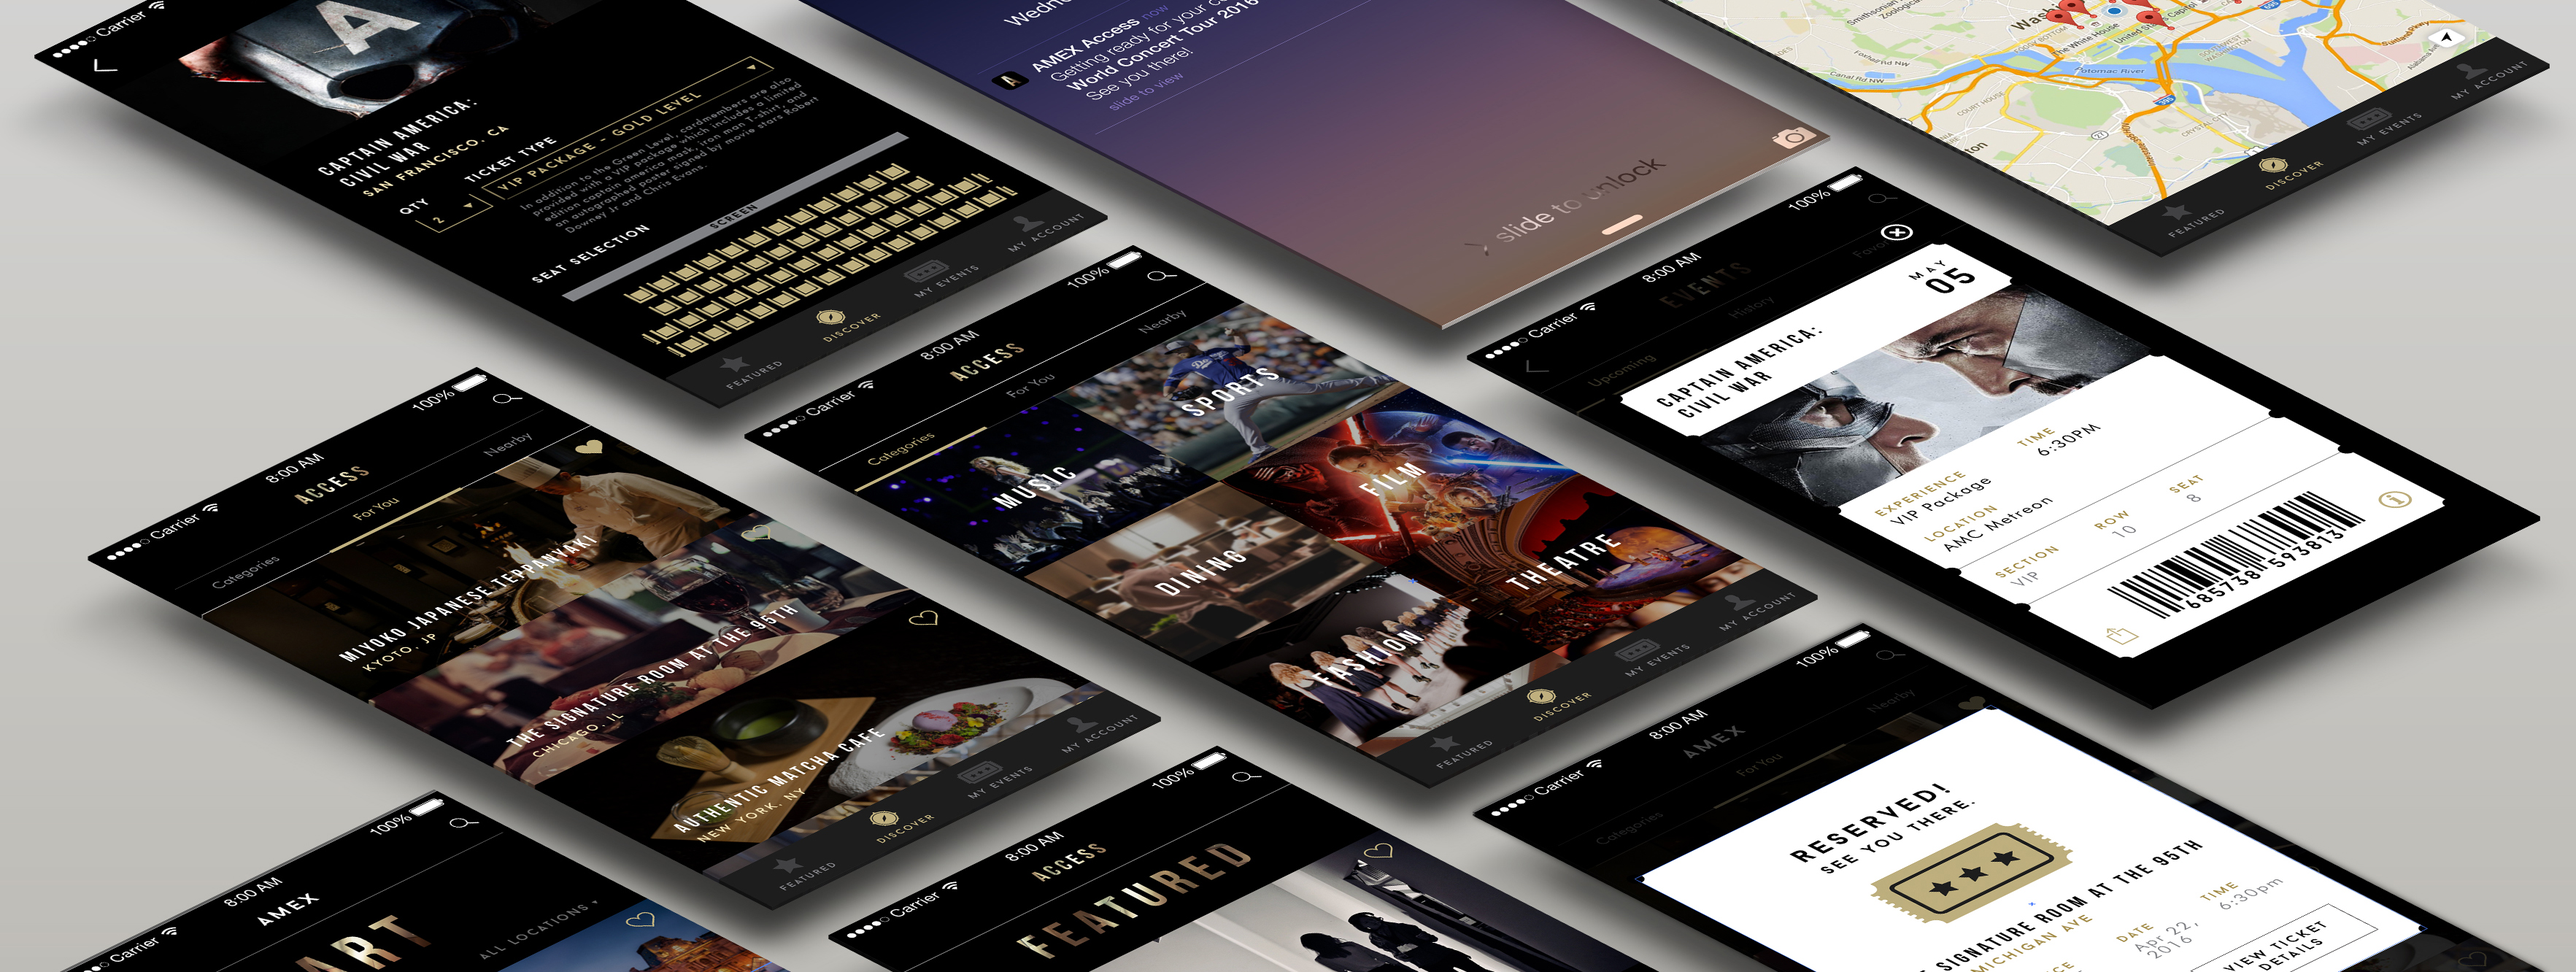
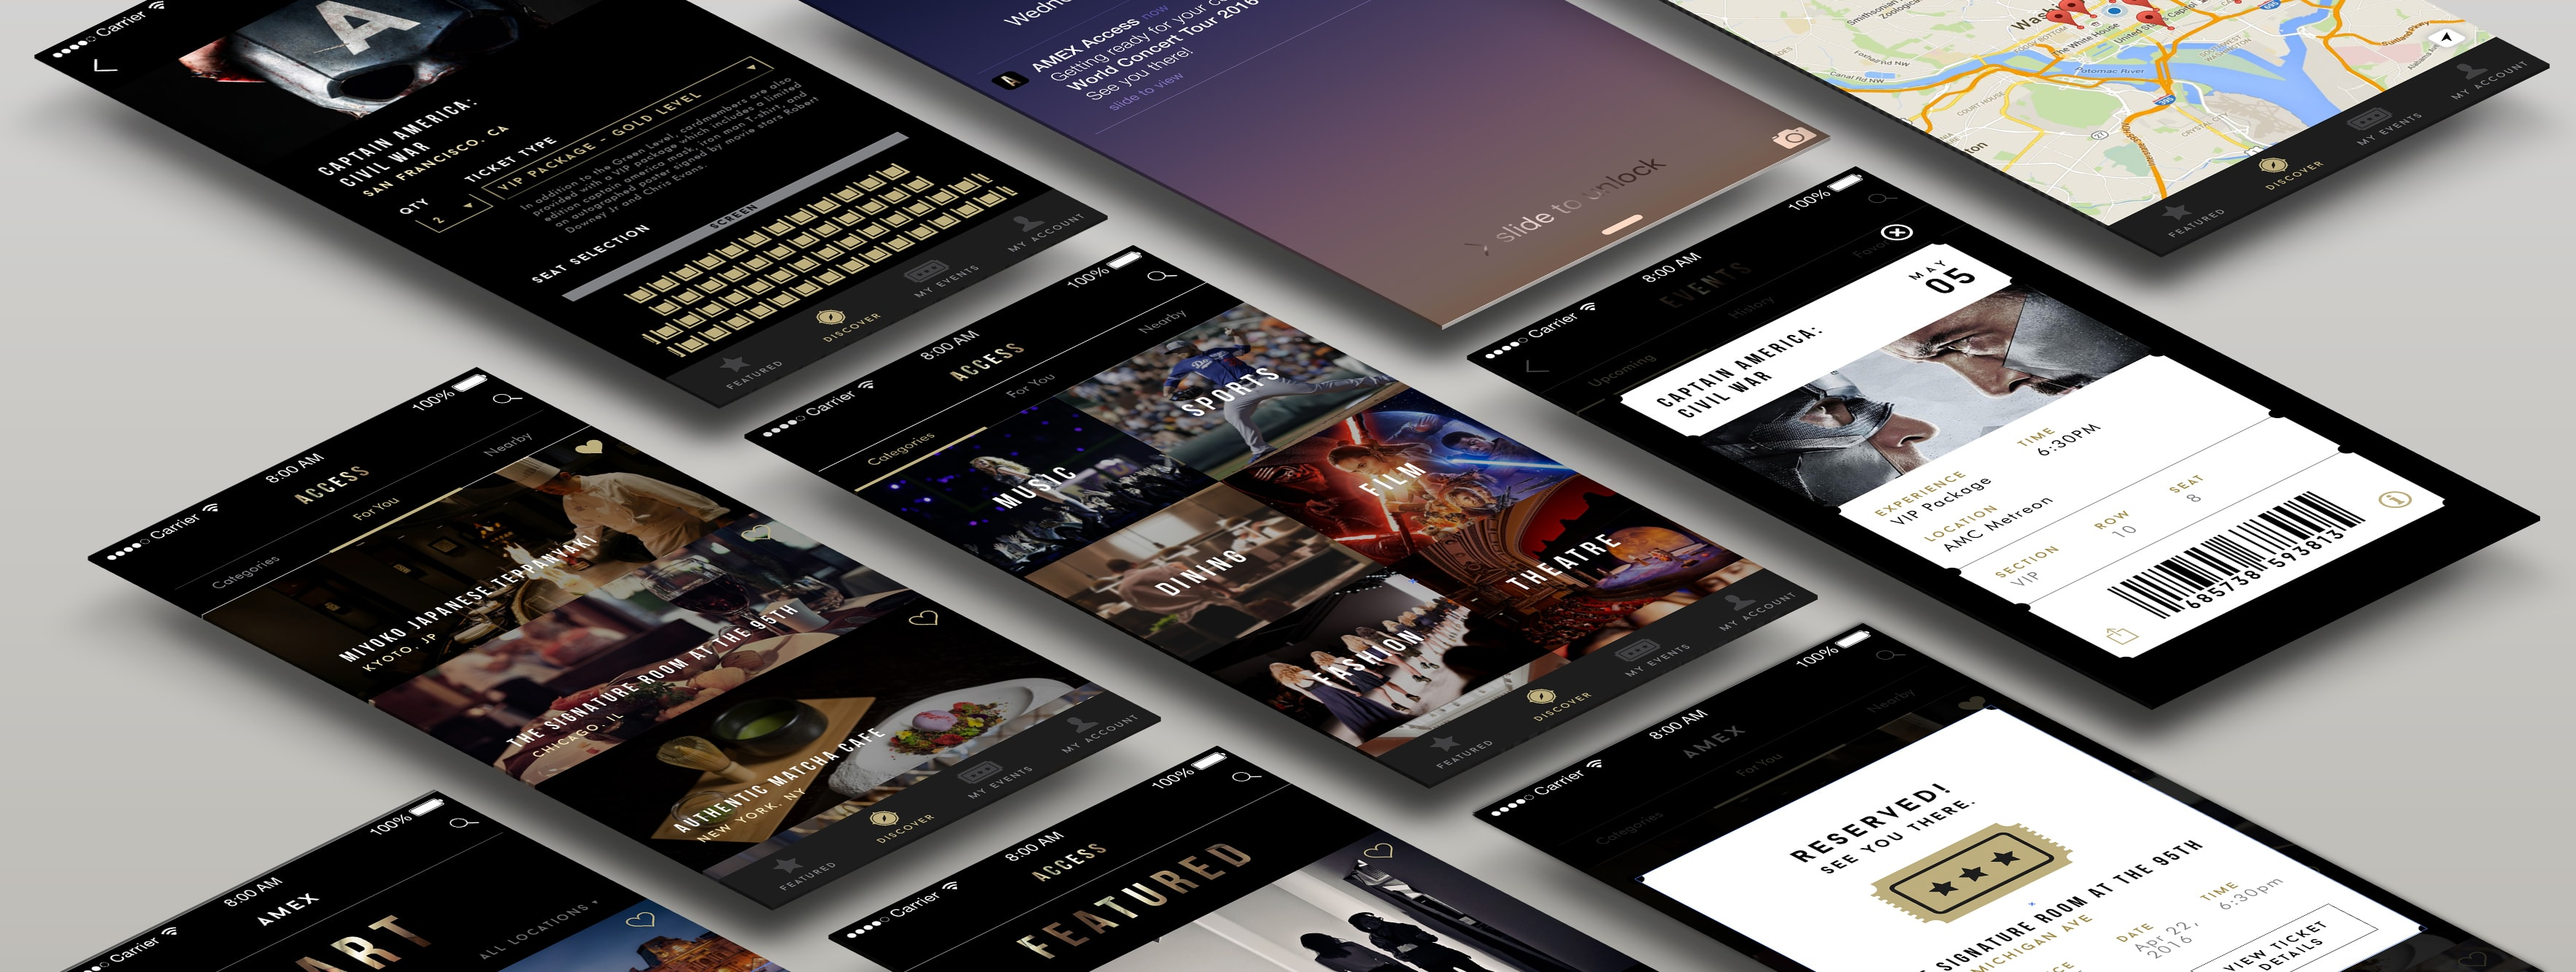
compressing images

Changed region(s): [[0.779, 0.0616, 0.8414, 0.0923]]

diff --git a/amex.html b/amex.html
@@ -184,6 +184,78 @@
 
 
 
+
+      <!-- ==================== Website Design ==================== -->
+
+      <div class="main-section">
+
+        <div class="section centered-section">
+          <h1>Website Design</h1>
+        </div>
+
+        <div class="grid-row">
+
+          <div class="grid-col-5of10 grid-pad image-top-align section-img">
+            <!-- Project image 1 -->
+            <a class="image-popup lightbox" href="img/project-amex-website-01.jpg" title="Access Website home page">
+               <img src="img/project-amex-website-01.jpg" alt="Access Website home page">
+            </a>
+
+            <br><br>
+
+            <h4 class="centered">Ticket Design</h4>
+            <p class="centered">I designed the ticket to correspond with the folding animation so it was delightful for cardholders to show their passes.</p>
+
+          </div>
+
+          <div class="grid-col-5of10 grid-pad image-top-align section-img">
+            <!-- Project image 1 -->
+            <a class="image-popup lightbox" href="img/project-amex-website-02.jpg" title="Access Website home page">
+               <img src="img/project-amex-website-02.jpg" alt="Access Website home page">
+            </a>
+
+            <br><br>
+
+            <h4 class="centered">Ticket Design</h4>
+            <p class="centered">I designed the ticket to correspond with the folding animation so it was delightful for cardholders to show their passes.</p>
+
+          </div>
+
+
+          <div class="grid-col-5of10 grid-pad image-top-align section-img">
+            <!-- Project image 2 -->
+            <a class="image-popup lightbox" href="img/project-amex-website-03.jpg" title="Access Website detailed dining page">
+               <img src="img/project-amex-website-03.jpg" alt="Access Website detailed dining page">
+            </a>
+
+            <br><br>
+
+            <h4 class="centered">Minimize Interaction</h4>
+            <p class="centered">I suggested the idea of minimizing the title to stick to the top when scrolling for easier scrolling.</p>
+
+          </div>
+
+
+          <div class="grid-col-5of10 grid-pad image-top-align section-img">
+            <!-- Project image 3 -->
+            <a class="image-popup lightbox" href="project-amex-website-04.jpg" title="Access Website detailed dining page scrolled down">
+               <img src="img/project-amex-website-04.jpg" alt="Access Website detailed dining page scrolled down">
+            </a>
+
+            <br><br>
+
+            <h4 class="centered">Sticky Interaction</h4>
+            <p class="centered">I suggested for the "Buy" button and info to be stuck to the top upon scrolling for easier access after reading.</p>
+
+          </div>
+
+
+        </div>
+
+      </div>
+
+
+
       <!-- ==================== Iterations ==================== -->
       
       <!-- Project image description -->
@@ -282,7 +354,8 @@
 
           <h1>Reflection</h1>
 
-          <p>Throughout my entire term as Vice President of Marketing, I gained valuable experience in <strong>marketing and branding.</strong> From designing promotional materials to website redesign, I expanded my skills in branding with every MISA event. I challenged myself to create different styles that fit wtih MISA.</p>
+          <p>Researching, setting constraints, and defining a core business problem were at the heart of this project. We were able to target a market and offer a solution that would help both business and customer.</p>
+          <p>Through this project, I grew an interest in user experience design and it has helped me to think critically about every decision that is made. In my visual design role, I used this thinking to make design choices and iterations more efficiently to ensure the best product was produced.</p>
 
         </div>
       </div>

diff --git a/index.html b/index.html
@@ -71,7 +71,7 @@
     <!-- ===================== Main Content ===================== -->
 
     <!-- Introduction Text -->
-    <div class="main-wrapper">
+    <div class="main-wrapper first-wrapper">
       <div class="title-section" id="main-title">
         <h1>Janine Wong.</h1>
         <h2>Marketer + Designer</h2>

diff --git a/rebranding-misa.html b/rebranding-misa.html
@@ -64,7 +64,7 @@
     <!-- ===================== Main Content ===================== -->
 
     <!-- Project overview -->
-    <div class="main-wrapper">
+    <div class="main-wrapper first-wrapper">
 
       <!-- Title Section -->
       <div class="main-section">

diff --git a/knitstitch.html b/knitstitch.html
@@ -65,7 +65,7 @@
     <!-- ===================== Main Content ===================== -->
 
     <!-- Project overview -->
-    <div class="main-wrapper">
+    <div class="main-wrapper first-wrapper">
       <div class="section">
 
         <!-- Title text -->

diff --git a/about.html b/about.html
@@ -53,7 +53,7 @@
 
 
     <!-- ===================== Main Content ===================== -->
-    <div class="main-wrapper">
+    <div class="main-wrapper first-wrapper">
 
       <div class="section title-section">
 

diff --git a/css/main.css b/css/main.css
@@ -268,7 +268,6 @@ a.hover:hover,
   padding-top: 5em;
 }
 
-body.main-wrapper:first-of-type,
 .first-wrapper {
   padding-top: 0em;
 }
